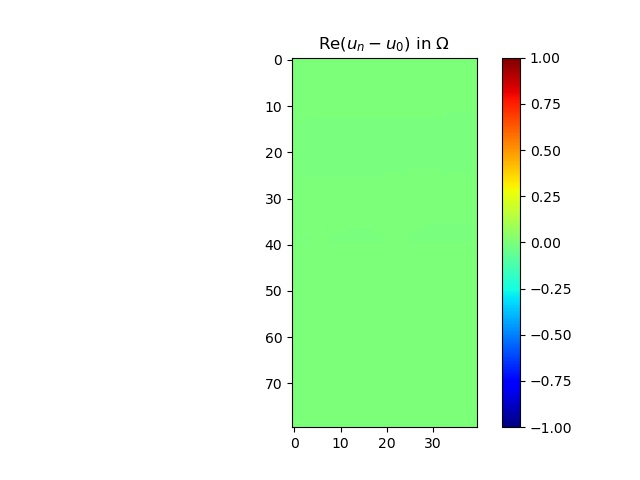
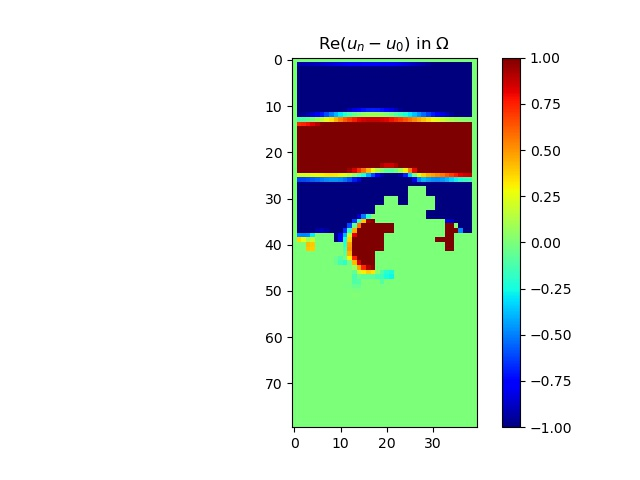
Pas mal

Changed region(s): [[0.4375, 0.125, 0.75, 0.5938]]

diff --git a/demo_control_polycopie.py b/demo_control_polycopie.py
@@ -27,7 +27,7 @@ def your_optimization_procedure(domain_omega, spacestep, wavenumber, f, f_dir, f
                                 Alpha, mu, chi, V_obj, mu1, V_0):
 
     eps1 = 0.01
-    eps2_0 = 10
+    eps2_0 = 60
     eps2 = eps2_0
     eps0 = 0.00001
     """This function return the optimized density.
@@ -76,10 +76,7 @@ def your_optimization_procedure(domain_omega, spacestep, wavenumber, f, f_dir, f
 
         Jp = -numpy.real(Alpha*u*p)
 
-        postprocessing._plot_perso_solution(Jp, chi*0)
-
         Jp[1:, :] = Jp[:-1, :]
-        postprocessing._plot_perso_solution(Jp, chi*0)
 
         while ene >= energy[k] and mu > eps0:
             l = 0
@@ -92,6 +89,7 @@ def your_optimization_procedure(domain_omega, spacestep, wavenumber, f, f_dir, f
 
             int = integral(chi_next)
             eps2 = eps2_0
+
             while abs(int-V_obj) >= eps1:
                 if int > V_obj:
                     l -= eps2
@@ -100,8 +98,8 @@ def your_optimization_procedure(domain_omega, spacestep, wavenumber, f, f_dir, f
                 chi_next = projector(chi-mu*Jp, l, domain_omega)
                 int = integral(chi_next)
                 eps2 /= 2
-                # print(int, V_obj)
-
+                print(int, V_obj)
+            postprocessing._plot_perso_solution(chi_next, chi*0)
             # print('    c. computing solution of Helmholtz problem, i.e., u')
             alpha_rob = Alpha * chi_next
             u = processing.solve_helmholtz(domain_omega, spacestep, wavenumber, f, f_dir, f_neu,
@@ -186,7 +184,7 @@ if __name__ == '__main__':
     # -- set parameters of the geometry
     N = 40  # number of points along x-axis
     M = 2 * N  # number of points along y-axis
-    level = 0  # level of the fractal : limited by N
+    level = 2  # level of the fractal : limited by N
     spacestep = 1.0 / N  # mesh size
 
     # -- set parameters of the partial differential equation
@@ -226,7 +224,7 @@ if __name__ == '__main__':
 
     # -- define subset of border on which we put the liner
     # modify this to change liners distribution
-    indices = list(range(1*(len(x)-1)//5, 3*(len(x)-1)//5))
+    indices = list(range(0*(len(x)-1)//10, 4*(len(x)-1)//10))
     # indices.extend(list(range(3*(len(x)-1)//5, 4*(len(x)-1)//5)))
     # print(indices)
 
